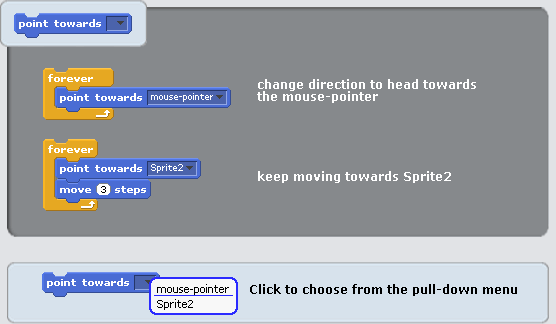
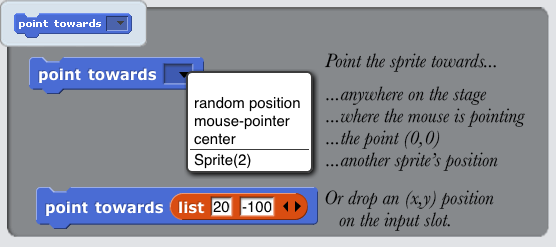
new help screens for some blocks, thanks, Brian!

diff --git a/HISTORY.md b/HISTORY.md
@@ -41,6 +41,9 @@
     * Greek, thanks, Alexandros!
     * German
 
+### 2019-02-23
+* new help screens for some blocks, thanks, Brian!
+
 ### 2019-02-22
 * Paint, Sketch: fixed pipette bug for fill color introduced 
 * Tweaked German translation
